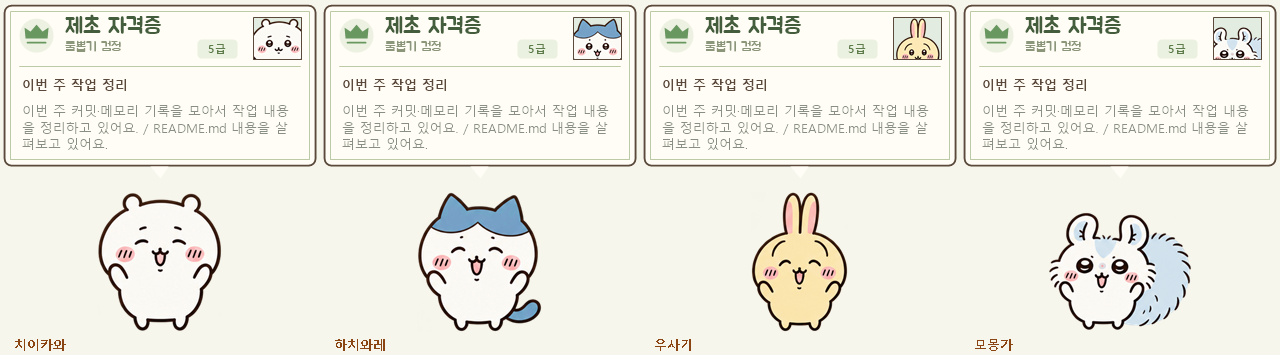
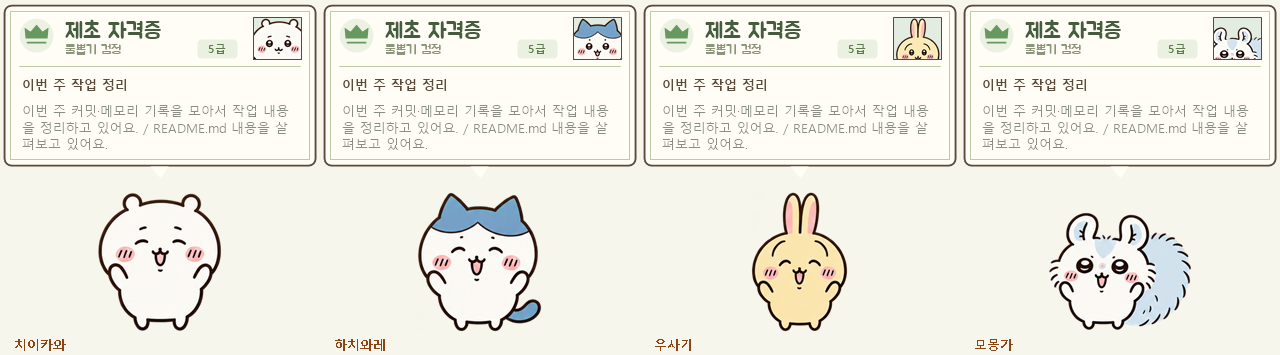
Balance certificate heading vertical spacing

diff --git a/ChiikawaDesktopPet.cs b/ChiikawaDesktopPet.cs
@@ -131,8 +131,8 @@ class Pet:Form {
   PointF[] crown={new PointF(25,38),new PointF(24,27),new PointF(30,31),new PointF(36,24),new PointF(42,31),new PointF(48,27),new PointF(47,38)};
   using(var brush=new SolidBrush(green))g.FillPolygon(brush,crown);
   using(var pen=new Pen(green,1.8f)){pen.StartCap=LineCap.Round;pen.EndCap=LineCap.Round;g.DrawLine(pen,27,42,45,42);}
-  using(var brush=new SolidBrush(Color.FromArgb(68,94,61)))using(var font=CertificateTypeface.Create(16.5f))g.DrawString("제초 자격증",font,brush,61,15);
-  using(var brush=new SolidBrush(Color.FromArgb(139,150,123)))using(var font=CertificateTypeface.Create(9.5f))g.DrawString("풀뽑기 검정",font,brush,63,41);
+  using(var brush=new SolidBrush(Color.FromArgb(68,94,61)))using(var font=CertificateTypeface.Create(16.5f))g.DrawString("제초 자격증",font,brush,61,20);
+  using(var brush=new SolidBrush(Color.FromArgb(139,150,123)))using(var font=CertificateTypeface.Create(9.5f))g.DrawString("풀뽑기 검정",font,brush,63,44);
   float badgeX=Width-123;
   using(var badge=new GraphicsPath()){
    badge.AddArc(badgeX,39,8,8,180,90);badge.AddArc(badgeX+32,39,8,8,270,90);
